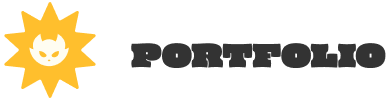
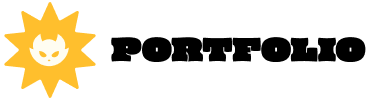
1

Changed region(s): [[0.2798, 0.36, 1.0, 0.69]]

diff --git a/index.html b/index.html
@@ -9,6 +9,10 @@
       href="https://fonts.googleapis.com/css2?family=Jua&family=Oi&family=Poppins:ital,wght@0,300;0,400;0,600;1,200;1,300;1,400;1,500;1,800;1,900&display=swap"
       rel="stylesheet"
     />
+    <link
+      href="https://webfontworld.github.io/BMJua/BMJua.css"
+      rel="stylesheet"
+    />
     <link rel="stylesheet" href="assets/css/reset.css" />
     <style>
       * {
@@ -31,7 +35,8 @@
         display: flex;
       }
       .header__left a {
-        color: #000;
+        color: #fff;
+        text-shadow: -2px 0px #000, 0px 2px #000, 2px 0px #000, 0px -2px #000;
       }
       .header__left .menu_icon {
         background-image: url(assets/img/menu.png);
@@ -57,7 +62,26 @@
         line-height: 1.2;
         background: #fbbf2d;
         z-index: -1;
-        /* padding: 1.85em 0; */
+      }
+      .title_name {
+        margin-top: 7vw;
+        color: #fb450c;
+        text-shadow: -2px 0px #000, 0px 2px #000, 2px 0px #000, 0px -2px #000;
+      }
+      .title_photo {
+        display: flex;
+        justify-content: center;
+      }
+      .title_photo p {
+        color: #fff;
+        text-shadow: -2px 0px #000, 0px 2px #000, 2px 0px #000, 0px -2px #000;
+      }
+      .title_photo .photo {
+        background-image: url(assets/img/faceimg.svg);
+        background-position: center;
+        background-size: cover;
+        width: 20vh;
+        height: 20vh;
       }
       .title div:first-child .title__logo1 {
         position: absolute;
@@ -91,11 +115,6 @@
         height: 130px;
       }
 
-      .title div:nth-child(2) p {
-        color: #fbbf2d;
-        color: #fb450c;
-        text-shadow: -2px 0px #000, 0px 2px #000, 2px 0px #000, 0px -2px #000;
-      }
       .title__img {
         position: absolute;
         left: 0;
@@ -107,6 +126,18 @@
         background-repeat: no-repeat;
         width: 420px;
         height: 420px;
+      }
+      .title__desc {
+        font-size: 1rem;
+        display: flex;
+        justify-content: space-around;
+        font-family: "BMJua";
+        font-weight: bold;
+        margin-top: 4vw;
+      }
+      .title__desc div {
+        font-size: 1vw;
+        text-align: left;
       }
 
       .portmove {
@@ -145,6 +176,13 @@
           display: none;
         }
       }
+
+      @media (max-width: 600px) {
+        .title__desc .aaa {
+          width: 100%;
+          text-align: center;
+        }
+      }
     </style>
   </head>
   <body>
@@ -170,10 +208,20 @@
               <div class="title__logo2"></div>
               <div class="title__logo3"></div>
             </div>
-            <div>
+            <div class="title_photo">
               <p>WORLD</p>
+              <div class="photo"></div>
             </div>
             <div class="title__img"></div>
+            <div class="title__desc">
+              <div class="aaa">
+                <p>A NEW PRONTEND</p>
+                <p>WEB DEVELOPER</p>
+                <p>CODING & CREATIVE</p>
+                <p>HARD WORKING</p>
+              </div>
+              <div></div>
+            </div>
           </div>
           <div class="portmove">
             <div class="pm01"></div>
